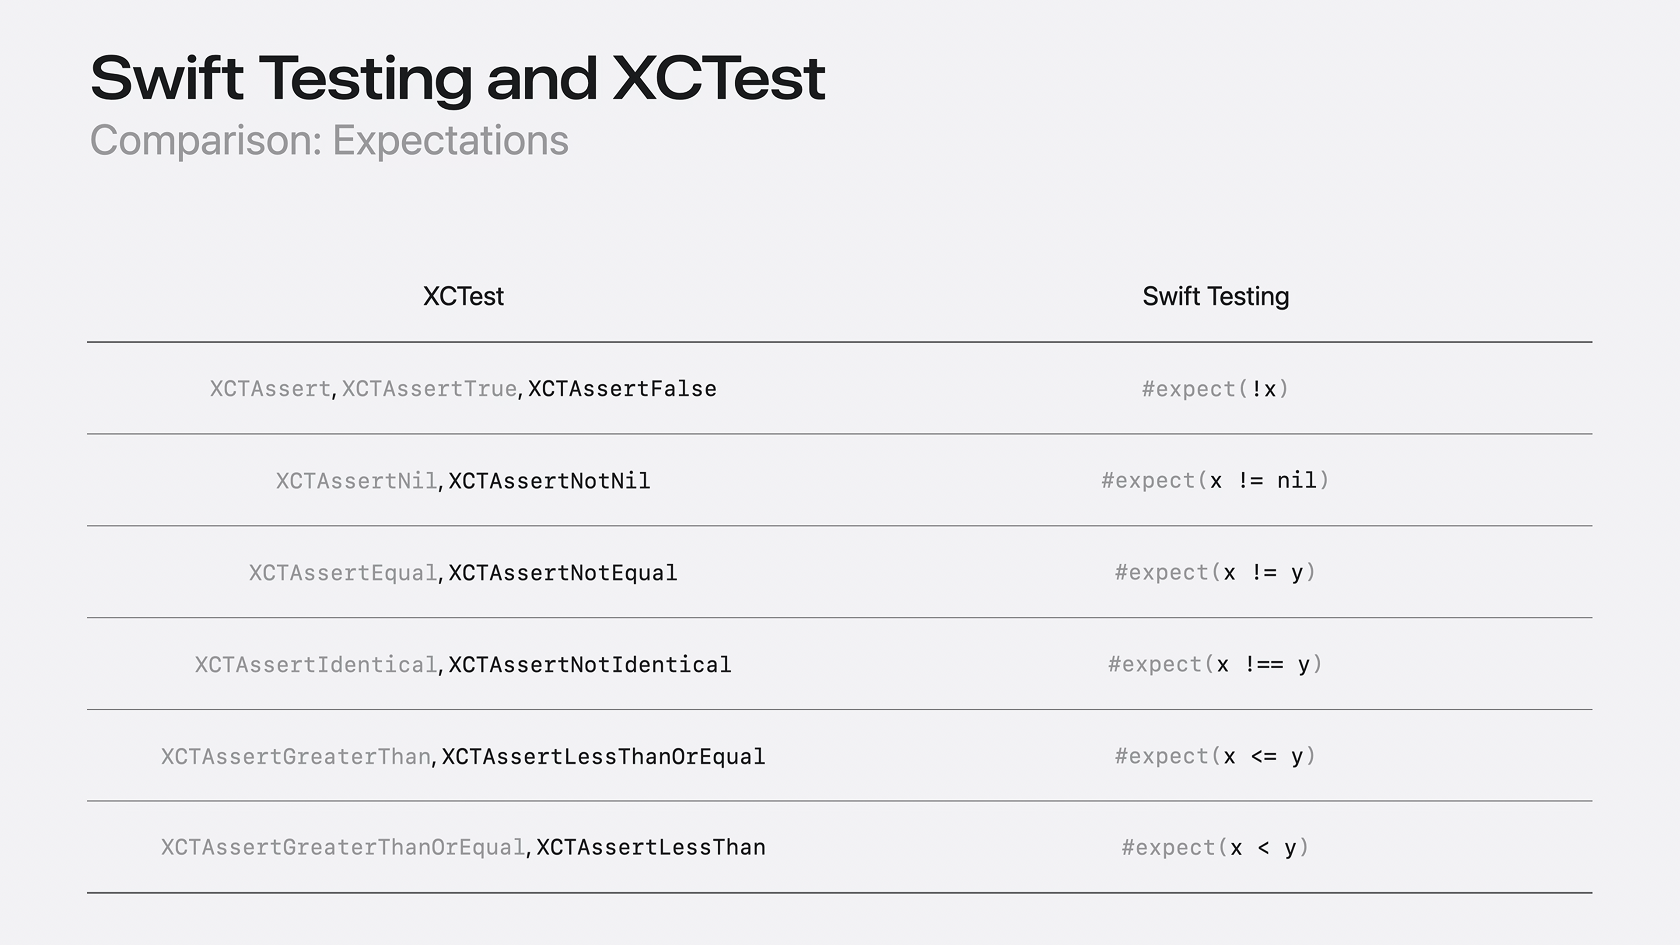
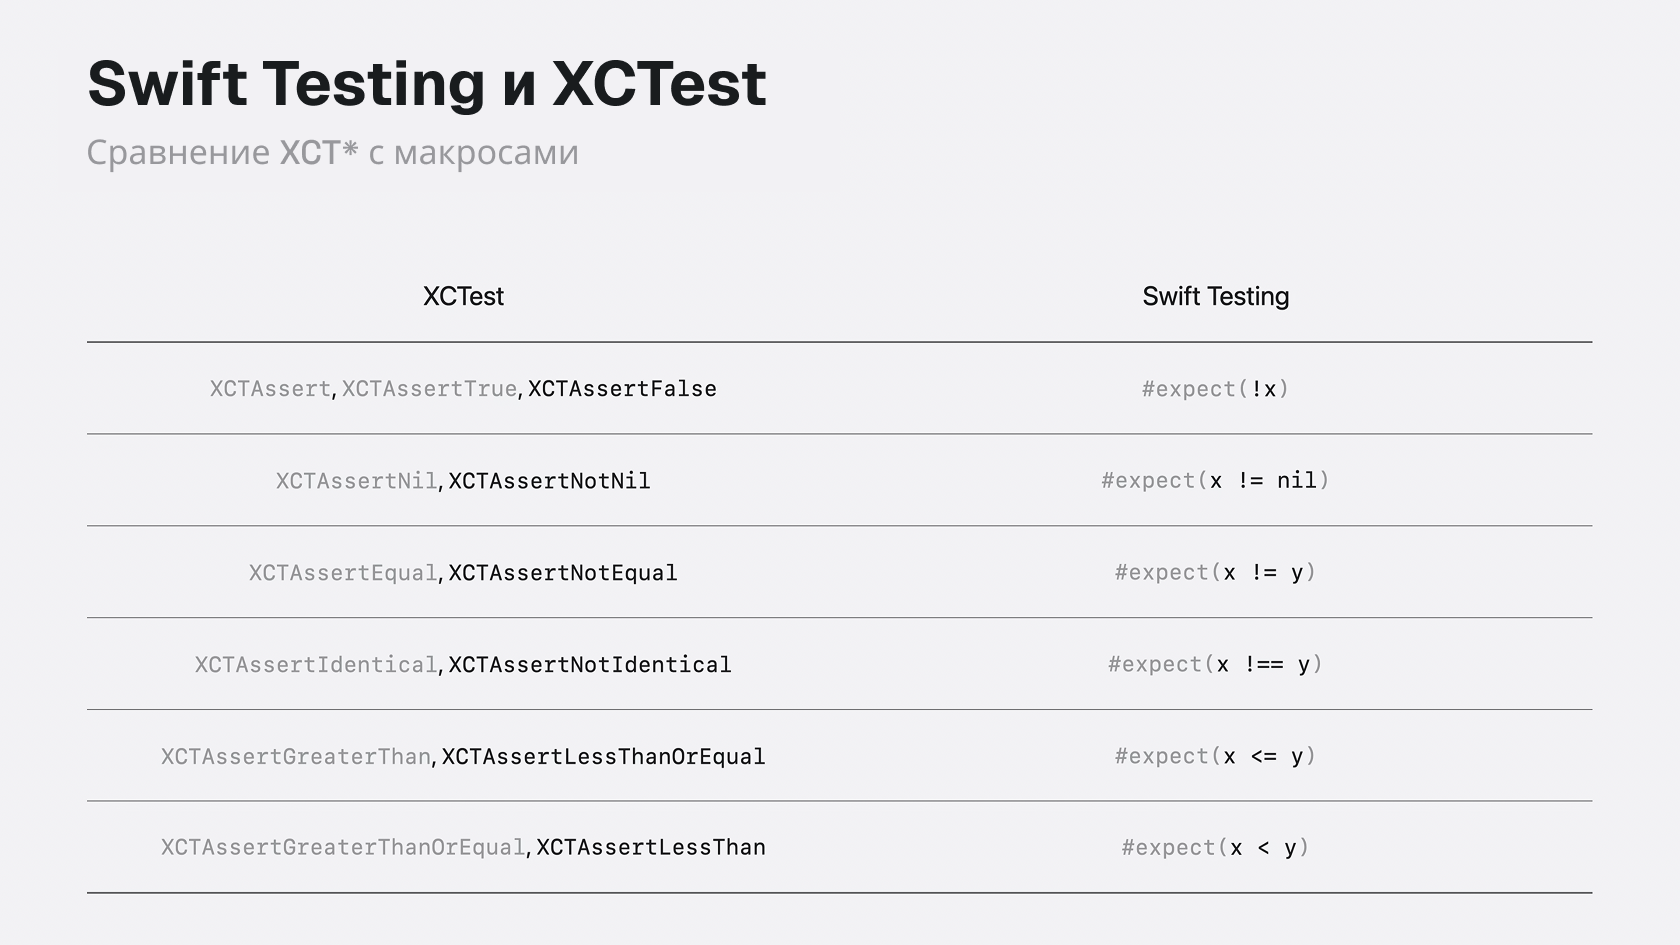
Done `XCTest или Swift Testing` ✅

Changed region(s): [[0.031, 0.0614, 0.4952, 0.1841]]

diff --git a/src/compare_xctest_and_modern_aproach.md b/src/compare_xctest_and_modern_aproach.md
@@ -12,13 +12,14 @@
 
 ### Сравнение функций
 
-| Критерий | XCTest | Swift Testing |
+![Сравнение функций](assets/Swift%20Testing%20Screenshots/compare_fn.png)
+
+<!-- | Критерий | XCTest | Swift Testing |
 | --- | --- | --- |
 | Объявление | Имя теста начинается со слова `test`| Указываем атрибут `@Test` |
 | Поддерживаемые типы данных | Методы инстанса | Методы инстанса, методы помеченные как static, глобальные функции |
 | Поддержка трейтов | Нет | Да |
-| Конкурентное выполнение | macOS или симулятор | Да |
-
+| Конкурентное выполнение | macOS или симулятор | Да | -->
 
 Тесты в XCTest — это любой метод начинающийся со слова `test`. Напротив, в Swift Testing ты указываешь атрибут `@Test`,
 исключая неоднозначность в намерениях. Библиотека тестирования поддерживает больше вариантов функций: ты можешь использовать
@@ -37,7 +38,7 @@
 Сравнение результатов очень различаются в старом и новом подходах.
 
 **XCTest** использует концепт различных проверок начинающихся с префикса `XCAssert*`.<br>
-**Swift Testing** имеет другой подход — существует только 2 основных макроса `#expect` и `#require`.
+**Swift Testing** имеет другой подход — существует только 2 макроса `#expect` и `#require`.
 
 ![Картинка сравнения 2](assets/Swift%20Testing%20Screenshots/compare_xct_2.png)
 
@@ -50,19 +51,18 @@
 
 ### Сравнение поддерживаемых типов данных
 
-| Критерий | XCTest | Swift Testing |
+![Сравнение типов](assets/Swift%20Testing%20Screenshots/compare_type.png)
+<!-- | Критерий | XCTest | Swift Testing |
 | ----- | :-------- | :--------------------- |
 | Типы данных | class | struct<br>actor<br>class |
 | Объявление | Подкласс XCTestCase | @Suite |
 | Настройка перед выполнением каждого теста | setUp()<br>setUpWithError() throws<br>setUp() async throws| init() async throws |
 | После каждого теста | tearDown()<br>tearDown() async throws<br>tearDownWithError() throws | deinit |
-| Вложенные типы | Не поддерживаются | Поддерживаются |
-
+| Вложенные типы | Не поддерживаются | Поддерживаются | -->
 
 Говоря о типах данных, следует напомнить что `XCTest` поддерживает только классы,
 которые наследуются от `XCTestCase`. В Swift Testing ты можешь использовать стуктуры, акторы и классы.
-Старайтесь использовать структуры по умолчанию, посколько они соответствуют `value` семантики и позволяют
-избегать ошибок с общим состоянием.
+По возможности используй структуры, посколько они соответствуют `value` семантики и позволяют избегать ошибок с общим состоянием.
 
 К каждому типу данных неявно применяется атрибут `@Suite`. Если ты хочешь задать
 отображаемое имя или использовать трейт, то в таком случае ты можешь применить атрибут `@Suite`.
@@ -70,10 +70,9 @@
 Для выполнения логики перед каждым запуском в `XCTest` используется метод `setUp(..)`.
 Аналогичным способом в Swift Testing используются инициализаторы данных, которые могут
 быть помечены ключевым словом `async` и/или `throws`. Для добавления логики после
-выполнения ты можешь использовать деинициализатор `deinit {...}`.
+выполнения теста или типа данных ты можешь использовать деинициализатор `deinit {...}`.
 
-> `deinit` можно использовать в акторах и классах. `~Copyable` структуры не поддерживаются Swift Testing,
-хоть и имеет возможность вызвать `deinit`.
+> `deinit` можно использовать в акторах и классах.<br>`~Copyable` структуры не поддерживаются Swift Testing, хоть и имеют возможность использовать `deinit`.
 
 ```swift
 struct C: ~Copyable {
@@ -88,15 +87,28 @@ struct C: ~Copyable {
 
 > ❌ Ошибка — _Noncopyable_ структуры не поддерживаются в Swift Testing.
 
-
-Finally, in Swift Testing, you can group tests into subgroups via nested types.
+Как я ранее упомянул, ты без каких-либо условий можешь делать вложенные типы данных.
 
 ### Миграция из XCTest
 
-XCTest and Swift Testing tests can co-exist in a single target, so if you choose to migrate, you can do so incrementally and you don’t need to create a new target first. When migrating multiple XCTest methods which have a similar structure, you can consolidate them into one parameterized test as we discussed earlier. For any XCTest classes with only one test method, consider migrating them to a global @Test function. And when naming tests, the word “test” is no longer necessary at the beginning.
+Если ты задумался переписать тесты на современный подход, то у меня хорошие новости — 
+тесты XCTest и Swift Testing могут существовать в одном таргете, поэтому ты можешь
+мигрировать постепенно и без создания нового таргета. Если класс XCTest содержит
+только 1 метод, рекомендую сделать его глобальной функцией с атрибутом @Test, это
+нормальная практика в Swift Testing. При именовании тестов больше не нужен префикс *test*.
 
-Please continue using XCTest for any tests which use UI automation APIs like XCUIApplication or use performance testing APIs like XCTMetric as these are not supported in Swift Testing. You must also use XCTest for any tests which can only be written in Objective-C. You can use Swift Testing to write tests in Swift that validate code written in another language, however. Finally, avoid calling XCTest assertion functions from Swift Testing tests, or the opposite — the #expect macro from XCTests.
+Следует упомянуть о важном недостатке в Swift Testing.
+В новой библиотеке отсутствует возможность создания автоматизации пользовательского
+интерейса `XCUIApplication`, а так же тесты производительности `XCTMetric`.
 
-XCUIApplication не поддерживается (перевести коммент):
+> [!IMPORTANT]
+> XCUIApplication и XCTMetric не поддерживаются в Swift Testing.
 
-https://github.com/swiftlang/swift-testing/issues/516#issuecomment-2201208834
+Помимо этого, продолжай использовать XCTest если тесты написаны могут быть написаны на
+`Objective-C`, поскольку Swift Testing не поддерживает `Objective-C` совсем.
+В конце концов избегай вызова функций из XCTest в функция Swift Testing или ситуации наоборот.
+
+> [!IMPORTANT]
+> Не вызывайте функции из XCTest в Swift Testing.<br>Не вызывайте макросы из Swift Testing в классах XCTest.<br>Не смешивайте старый подход в новом и наоборот.
+
+<!-- https://github.com/swiftlang/swift-testing/issues/516#issuecomment-2201208834 -->

diff --git a/src/basic_macro.md b/src/basic_macro.md
@@ -1,7 +1,9 @@
 # Базовые макросы сравнения
 
 В этой главе мы изучим базовые макросы сравнения. Вы можете использовать проект из этой книги или создать пустой проект, добавив в таргет новую систему тестирования.
-<!-- Скрин добавления новой системы тестирования -->
+
+![Новая система тестирования в Xcode](assets/Swift%20Testing%20Screenshots/init_new_xcode_project.png)
+
 Рассмотрим функцию, импортировав новый фреймворк `Testing`:
 
 ```swift
@@ -87,7 +89,7 @@ func calcWithEmptyValues() async {
 
 #### Макрос сравнения #require
 
-Иногда необходимо закончить выполнение теста заранее и вернуть ошибку. Для этого можем использовать макрос `#require`:
+Иногда необходимо развернуть опциональное значение, закончить выполнение теста заранее и вернуть ошибку. Для этого можем использовать макрос `#require`:
 
 ```swift
 @Test("Правильная проверка опционального города")

diff --git a/src/SUMMARY.md b/src/SUMMARY.md
@@ -17,8 +17,8 @@
 - [Теги везде](tags.md) <!-- 🛠 -->
 - [Добавляем собственный трейт](Traits/OwnTrait.md) <!-- ✅ -->
 - [Best practice](best_practice_short.md) <!-- 🛠 -->
-- [Кто управляет тестами](runner.md)
-- [Сравнение с XCTest](compare_xctest_and_modern_aproach.md)
+- [Кто управляет тестами](runner.md) <!-- ✅ -->
+- [XCTest или Swift Testing](compare_xctest_and_modern_aproach.md) <!-- ✅ -->
 - [Мета информация и обозначения](xcode_meta.md)
 <!-- - [Вывод]() -->
 
